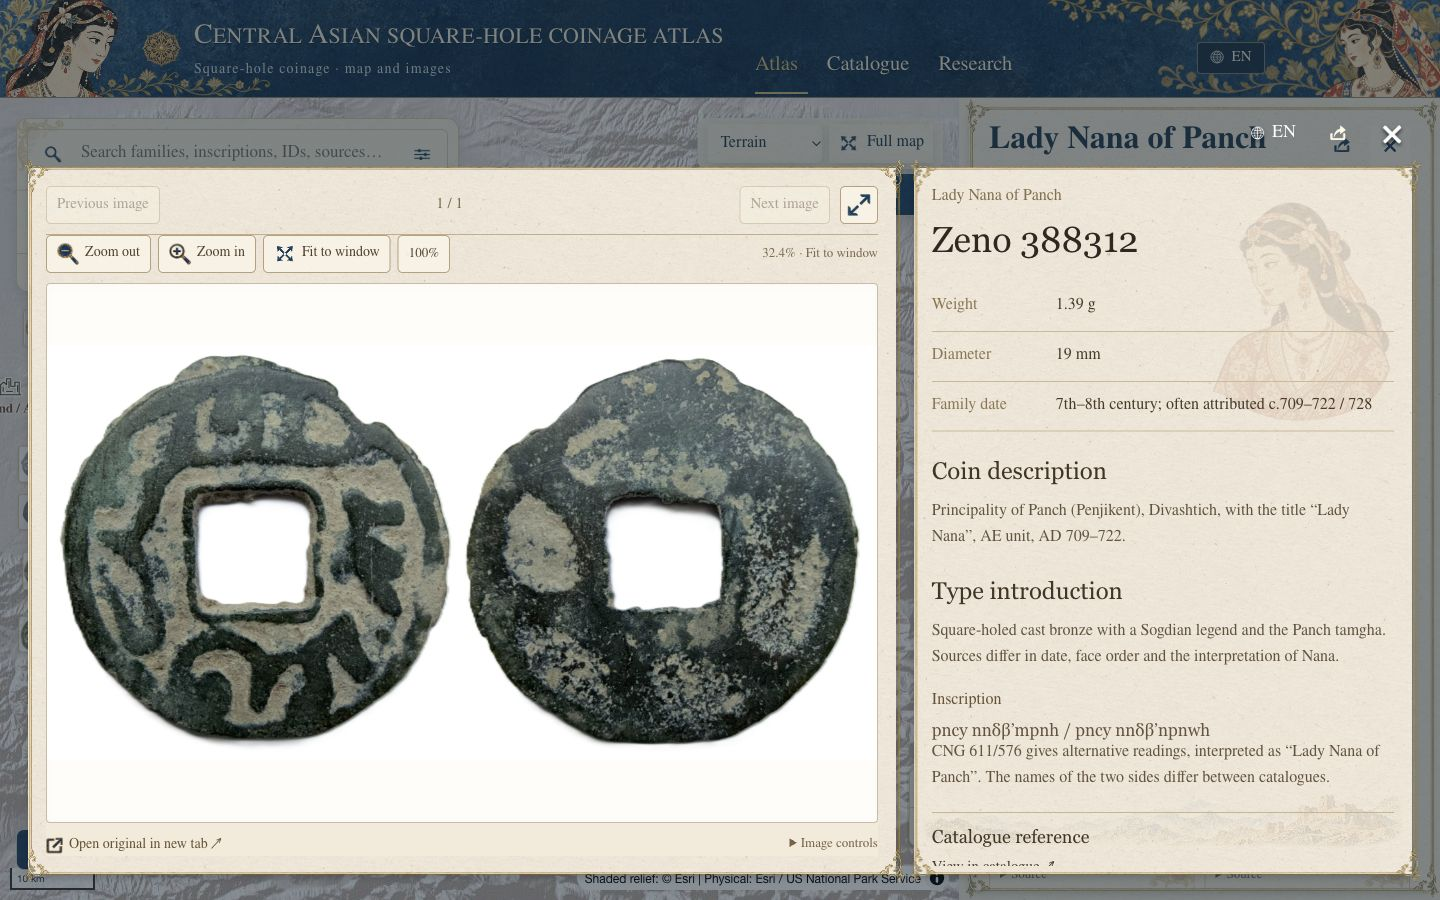
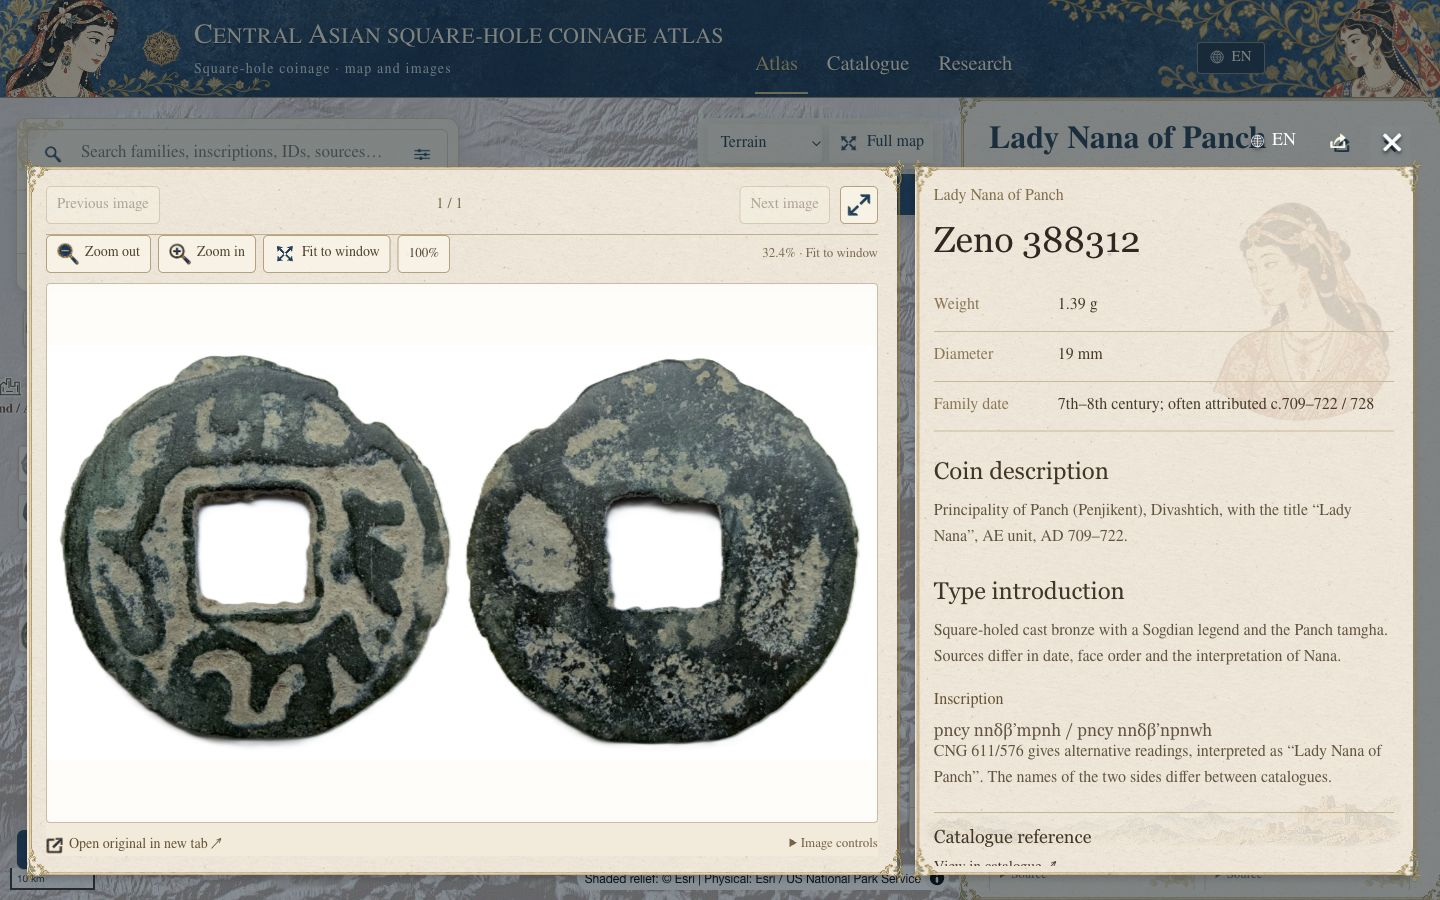
fix: align frame paper edges and lower detail actions

Changed region(s): [[0.625, 0.0933, 1.0, 1.0], [0.8438, 0.0933, 1.0, 0.1867], [0.7188, 0.3733, 0.7812, 0.4044]]

diff --git a/app/detail-frames.css b/app/detail-frames.css
@@ -1,5 +1,5 @@
 /* T67.2 V2: fixed decorative edges around independently scrolling content. */
-.atlas-screen .family-drawer {
+.atlas-screen .family-drawer.family-drawer {
  background:transparent;border:0;border-radius:0;box-shadow:none;
  isolation:isolate;padding:10px;box-sizing:border-box;
 }
@@ -12,18 +12,21 @@
 }
 .atlas-screen .family-drawer::after,
 .art-detail[data-kind="record"] .detail-frame::before {
- content:"";position:absolute;inset:10px;width:auto;height:auto;
+ content:"";position:absolute;inset:9px;width:auto;height:auto;
  background:#f3ead8 url('/visual/t67-2/paper.png') center/620px;
  opacity:1;box-shadow:0 4px 7px rgb(0 0 0 /16%);
  pointer-events:none;z-index:-1;
 }
+/* The family wrapper ends at its visible frame, not the asset alpha margin. */
+.atlas-screen .family-drawer::before {inset:-9px}
+.atlas-screen .family-drawer::after {inset:0}
 dialog.art-detail[data-kind="record"] {
  background:transparent;border:0;box-shadow:none;border-radius:0;overflow:visible;
  margin:calc(var(--atlas-header) + 60px) auto 0;
  height:calc(100dvh - var(--atlas-header) - 76px);
 }
 .art-detail[data-kind="record"] .related-detail-header {
- position:absolute;right:10px;bottom:calc(100% + 4px);height:40px;
+ position:absolute;right:10px;bottom:calc(100% - 4px);height:40px;
  width:auto;padding:0;gap:14px;background:none;border:0;color:white;z-index:5;
 }
 .art-detail[data-kind="record"] .related-detail-header>strong,
@@ -45,7 +48,7 @@ dialog.art-detail[data-kind="record"] {
  position:relative;isolation:isolate;min-width:0;min-height:0;padding:18px;
  display:flex;box-sizing:border-box;
 }
-.art-detail[data-kind="record"] .detail-frame+.detail-frame {margin-left:-2px}
+.art-detail[data-kind="record"] .detail-frame+.detail-frame {margin-left:0}
 .art-detail[data-kind="record"] .detail-frame>.detail-image-panel,
 .art-detail[data-kind="record"] .detail-frame>.modal-info {
  width:100%;height:100%;box-sizing:border-box;border:0;overflow:auto;
